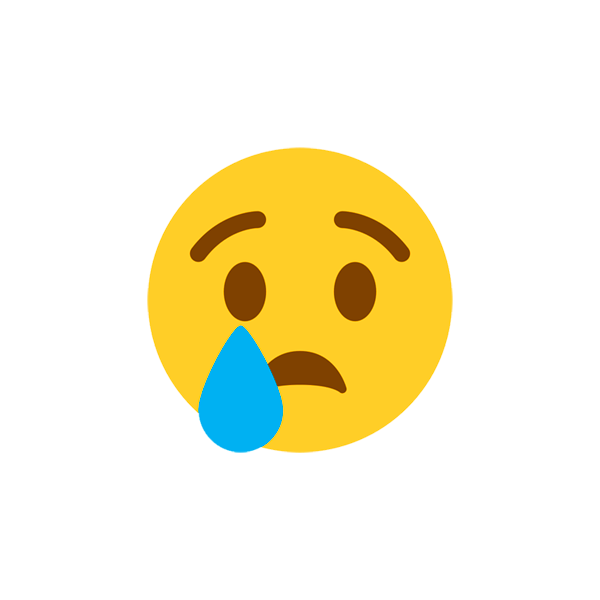
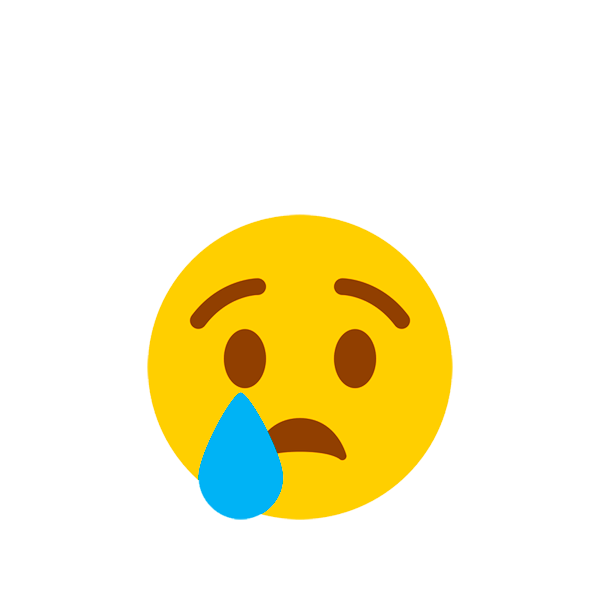
changes search styles

Changed region(s): [[0.24, 0.24, 0.78, 0.87]]

diff --git a/src/app/app.component.html b/src/app/app.component.html
@@ -1,75 +1,82 @@
-<div class="search">
-  <form #form="ngForm" (submit)="onSubmit()">
-    <input
-      type="text"
-      placeholder="Please enter city name"
-      name="city"
-      [(ngModel)]="cityName"
-    />
-  </form>
+<div class="main">
+  <div class="container">
+    <div class="upper-data">
+      <div class="search">
+        <form #form="ngForm" (submit)="onSubmit()">
+          <input
+            type="text"
+            placeholder="Please enter city name"
+            name="city"
+            [(ngModel)]="cityName"
+          />
+        </form>
+      </div>
+      <img
+        src="../assets/weatherImage.jpg"
+        alt="coldImg"
+        *ngIf="!wrongCityName"
+      />
+      <img src="../assets/sad_emoji.png" alt="sadEmoji" *ngIf="wrongCityName" />
+      <div class="weather-data" *ngIf="!wrongCityName">
+        <div class="location">{{ weatherData.location.name }}</div>
+        <div class="temperature">
+          {{ weatherData.current.temp_c }}°C /
+          {{ weatherData.current.temp_f }}°F
+        </div>
+      </div>
+    </div>
+    <div class="lower-data">
+      <div class="more-info-label" *ngIf="!wrongCityName">More Information</div>
+      <div class="wrong-information-message" *ngIf="wrongCityName">
+        Sorry, but we can't find this place
+      </div>
+      <div class="more-info-container" *ngIf="!wrongCityName">
+        <div class="info-block">
+          <div class="info-block-label">
+            <img src="../assets/wind_icon.png" alt="#" />
+            <span>Wind speed</span>
+          </div>
+          <div class="info-block-value">
+            {{ weatherData.current.wind_kph }} km/h /
+            {{ weatherData.current.wind_mph }} mi/h
+          </div>
+        </div>
+        <div class="info-block">
+          <div class="info-block-label">
+            <img src="../assets/humidity_icon.png" alt="#" />
+            <span>Humidity</span>
+          </div>
+          <div class="info-block-value">
+            {{ weatherData.current.humidity }}%
+          </div>
+        </div>
+        <div class="info-block">
+          <div class="info-block-label">
+            <img src="../assets/location_icon.png" alt="#" />
+            <span>Country</span>
+          </div>
+          <div class="info-block-value">{{ weatherData.location.country }}</div>
+        </div>
+        <div class="info-block">
+          <div class="info-block-label">
+            <img src="../assets/time_icon.png" alt="#" />
+            <span>Local time</span>
+          </div>
+          <div class="info-block-value">
+            {{ weatherData.location.localtime }}
+          </div>
+        </div>
+        <div class="info-block">
+          <div class="info-block-label">
+            <img src="../assets/timezone_icon.png" alt="#" />
+            <span>Timezone</span>
+          </div>
+          <div class="info-block-value">{{ weatherData.location.tz_id }}</div>
+        </div>
+      </div>
+    </div>
+  </div>
+  <ng-template #noData>Wrong information</ng-template>
 </div>
 
-<div class="container">
-  <div class="upper-data">
-    <img
-      src="../assets/weatherImage.jpg"
-      alt="coldImg"
-      *ngIf="!wrongCityName"
-    />
-    <img src="../assets/sad_emoji.png" alt="sadEmoji" *ngIf="wrongCityName" />
-    <div class="weather-data" *ngIf="!wrongCityName">
-      <div class="location">{{ weatherData.location.name }}</div>
-      <div class="temperature">
-        {{ weatherData.current.temp_c }}°C / {{ weatherData.current.temp_f }}°F
-      </div>
-    </div>
-  </div>
-  <div class="lower-data">
-    <div class="more-info-label" *ngIf="!wrongCityName">More Information</div>
-    <div class="wrong-information-message" *ngIf="wrongCityName">
-      Sorry, but we can't find this place
-    </div>
-    <div class="more-info-container" *ngIf="!wrongCityName">
-      <div class="info-block">
-        <div class="info-block-label">
-          <img src="../assets/wind_icon.png" alt="#" />
-          <span>Wind speed</span>
-        </div>
-        <div class="info-block-value">
-          {{ weatherData.current.wind_kph }} km/h /
-          {{ weatherData.current.wind_mph }} mi/h
-        </div>
-      </div>
-      <div class="info-block">
-        <div class="info-block-label">
-          <img src="../assets/humidity_icon.png" alt="#" />
-          <span>Humidity</span>
-        </div>
-        <div class="info-block-value">{{ weatherData.current.humidity }}%</div>
-      </div>
-      <div class="info-block">
-        <div class="info-block-label">
-          <img src="../assets/location_icon.png" alt="#" />
-          <span>Country</span>
-        </div>
-        <div class="info-block-value">{{ weatherData.location.country }}</div>
-      </div>
-      <div class="info-block">
-        <div class="info-block-label">
-          <img src="../assets/time_icon.png" alt="#" />
-          <span>Local time</span>
-        </div>
-        <div class="info-block-value">{{ weatherData.location.localtime }}</div>
-      </div>
-      <div class="info-block">
-        <div class="info-block-label">
-          <img src="../assets/timezone_icon.png" alt="#" />
-          <span>Timezone</span>
-        </div>
-        <div class="info-block-value">{{ weatherData.location.tz_id }}</div>
-      </div>
-    </div>
-  </div>
-</div>
-<ng-template #noData>Wrong information</ng-template>
 <router-outlet></router-outlet>

diff --git a/src/app/app.component.css b/src/app/app.component.css
@@ -113,8 +113,12 @@
 }
 
 .search {
-    padding: 20px;
     text-align: center;
+    position: absolute;
+    top: 15%;
+    left: 50%;
+    transform: translate(-50%, -50%);
+    z-index: 99;
 }
 
 .search input {
@@ -127,4 +131,36 @@
     color: var(--white);
     font-size: 1.5rem;
     text-align: center;
+}
+
+@media screen and (max-width: 550px) {
+    .container {
+        width: 350px;
+    }
+    .main {
+        display: flex;
+        flex-direction: column;
+        align-items: center;
+    }
+    .location {
+        font-size: 1.6rem;
+    }
+    .search input {
+        width: 300px;
+    }
+    .temperature {
+        font-size: 1.8rem;
+    }
+    .info-block-value {
+        font-size: .8rem;
+    }
+    .wrong-information-message {
+        font-size: 1rem;
+    }
+}
+
+@media screen and (max-height: 900px) {
+    .container {
+        height: 85vh;
+    }
 }

diff --git a/src/app/app.component.ts b/src/app/app.component.ts
@@ -11,7 +11,7 @@ import { WeatherService } from './services/weather.service';
 })
 export class AppComponent implements OnInit {
   cityName: string = 'Moscow';
-  wrongCityName: boolean = true;
+  wrongCityName: boolean = false;
   weatherData!: IWeatherData;
 
   constructor(private weatherService: WeatherService) {}

diff --git a/src/app/environment/environment.prod.ts b/src/app/environment/environment.prod.ts
@@ -1,0 +1,5 @@
+export const environment = {
+  production: true,
+  weatherApiBaseUrl: 'http://api.weatherapi.com/v1/current.json?key=',
+  key: '2317f449e4af44f3bad65207230901',
+};
